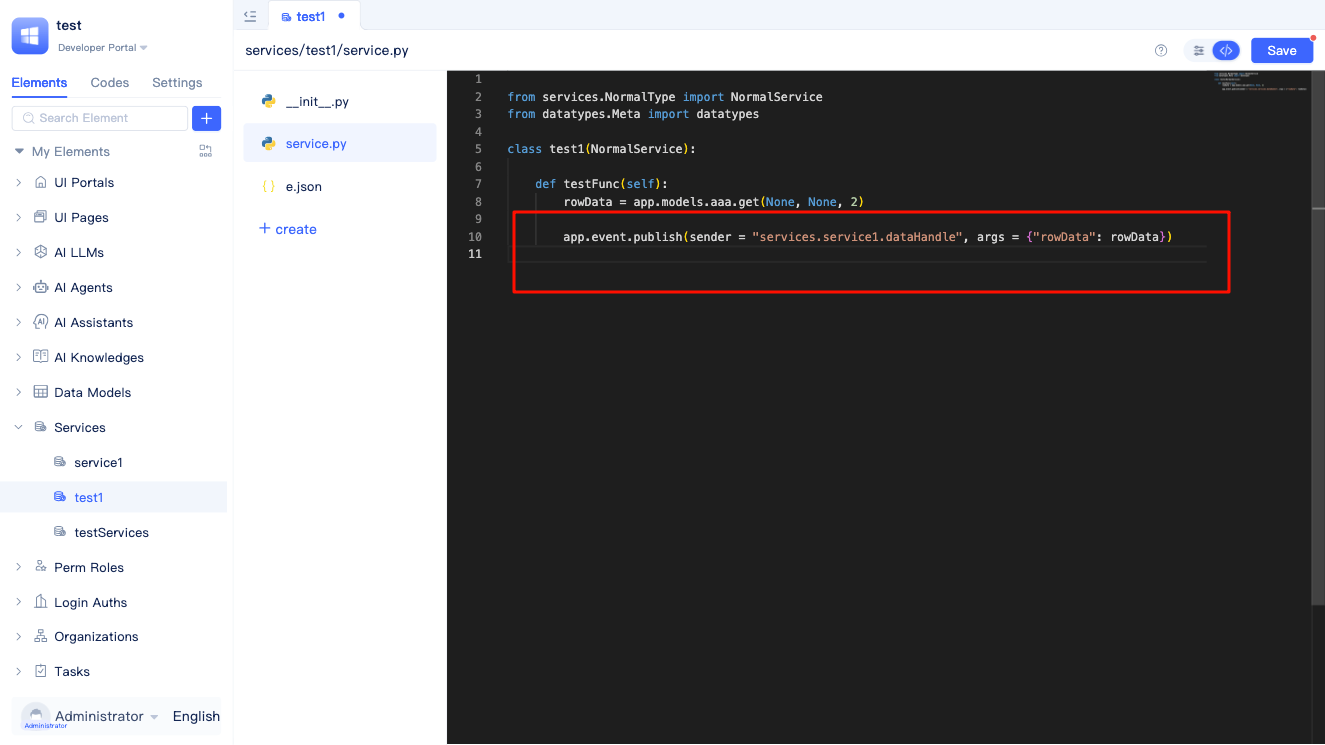
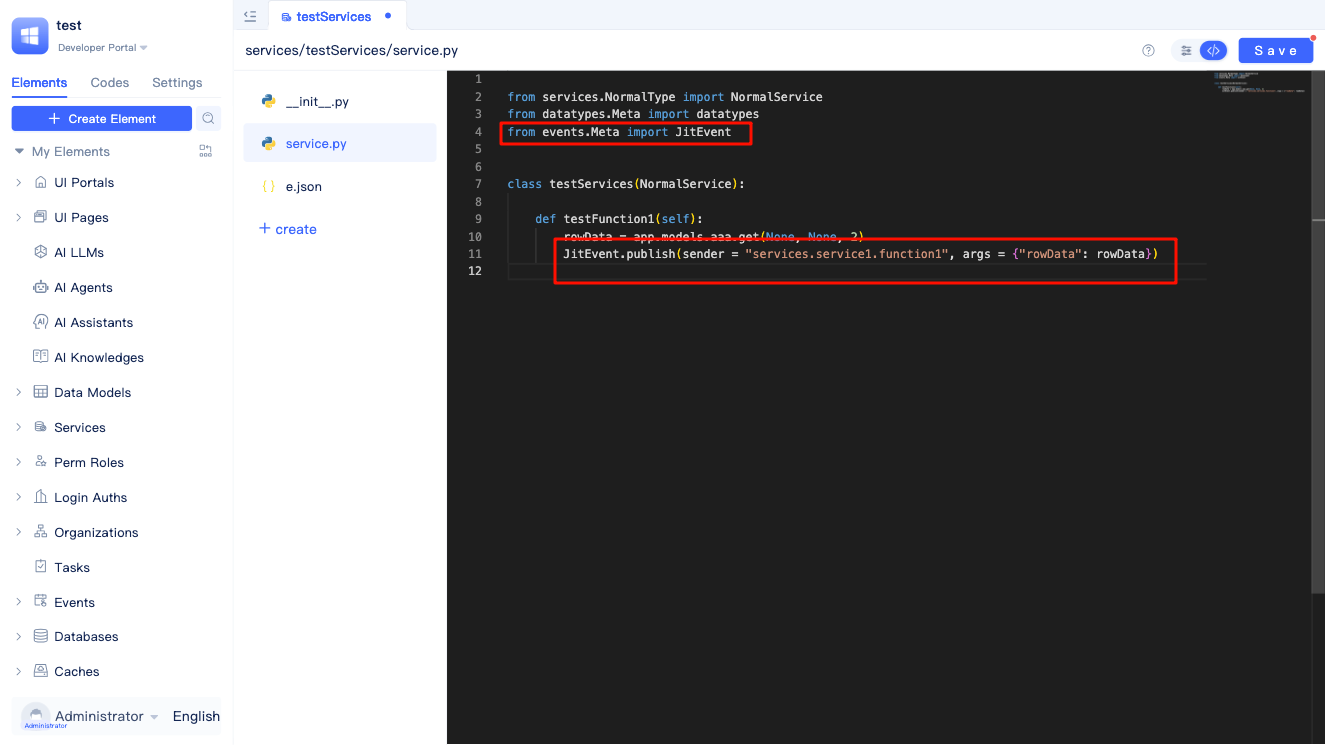
docs: Custom Event Documentation Updates (#439)

diff --git a/docs/devguide/business-logic-development/event-handling.md b/docs/devguide/business-logic-development/event-handling.md
@@ -105,7 +105,7 @@ Add statements in function logic to trigger custom events.
 
 ![Custom event trigger](./img/custom-event-trigger.png "Custom event trigger")
 
-In the service's `service.py` function logic, use `app.event.publish` to trigger events. The `sender` parameter represents the event sender (typically the function path), and `args` is used to pass parameters.
+In the `service.py` service function logic, import `from events.Meta import JitEvent` and use `JitEvent.publish` to trigger the event. The `sender` parameter represents the event sender (usually the function path), and `args` is used to pass parameters.
 
 ### Subscribing to custom events {#subscribing-to-custom-events}
 
